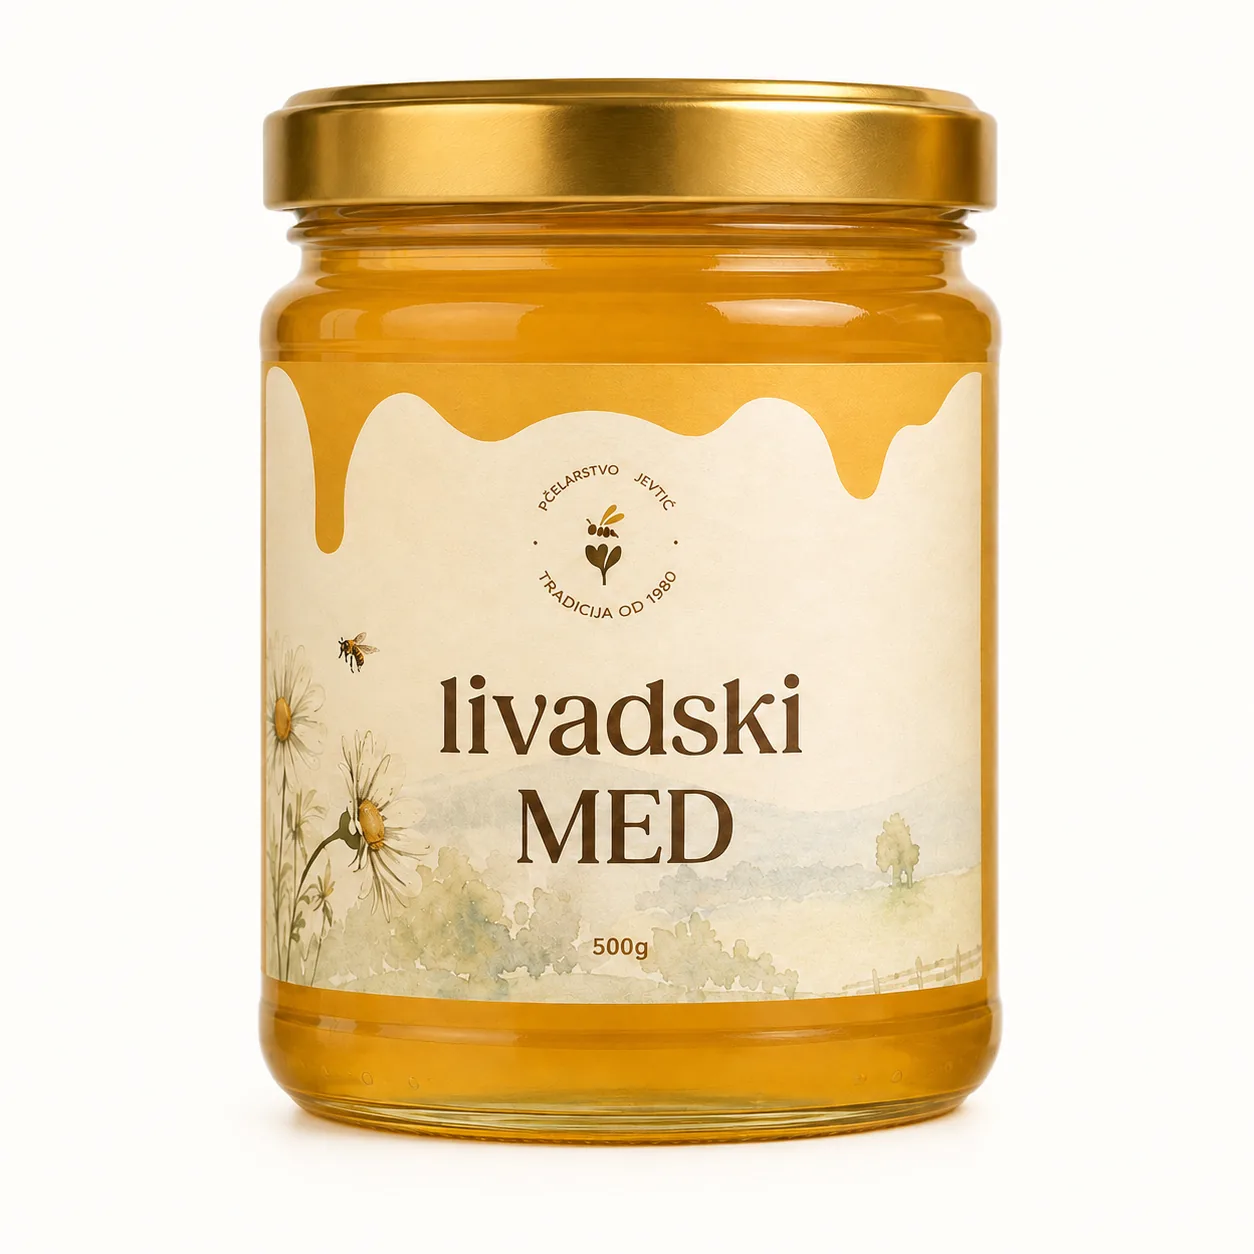
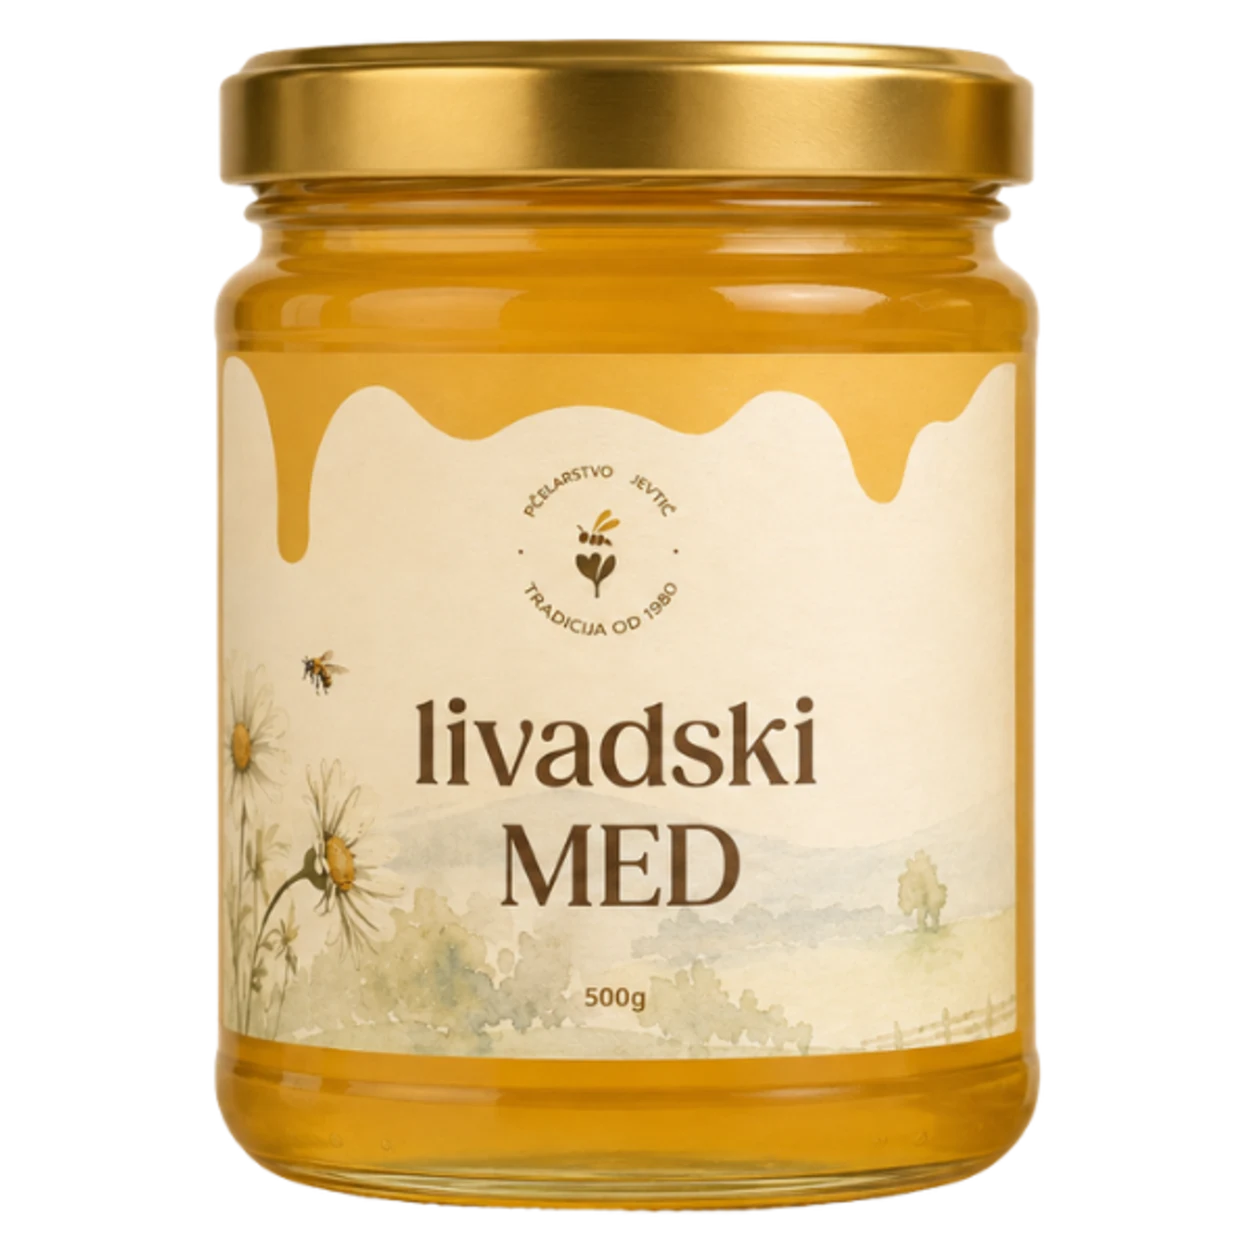
Name the products section by taste, and colour each card to its jar
Swap in the cut-out jar shots for all four featured articles and give the
two honeys a background of their own: pale honey behind livadski, a beige
that barely leaves the paper behind bagremov.

Claude-Session: https://claude.ai/code/session_01EY6e21nWCo1GRWFAS6uUyJ

Changed region(s): [[0.1555, 0.0311, 0.8397, 0.9641], [0.4043, 0.3732, 0.5598, 0.5287]]

diff --git a/src/content/pages.ts b/src/content/pages.ts
@@ -135,7 +135,7 @@ export const home = {
   featured: {
     sr: {
       eyebrow: 'Iz naših košnica',
-      heading: 'Dva meda, propolis i imuno mix.',
+      heading: 'Ukusi koji se ne zaboravljaju.',
       viewAll: 'Svi proizvodi',
       items: [
         { slug: 'livadski-med-500g', name: 'Livadski Med', note: 'Blag, cvjetan i uravnotežen.' },
@@ -150,7 +150,7 @@ export const home = {
     },
     en: {
       eyebrow: 'From our hives',
-      heading: 'Two honeys, propolis and imuno mix.',
+      heading: 'Flavours you do not forget.',
       viewAll: 'All products',
       items: [
         { slug: 'livadski-med-500g', name: 'Meadow Honey', note: 'Mild, floral and balanced.' },

diff --git a/src/data/products.ts b/src/data/products.ts
@@ -50,7 +50,7 @@ export const products: Product[] = [
     order: 2,
     category: 'honey',
     image: '/images/proizvodi/bagremov-500g.webp',
-    cardBg: 'var(--shot)',
+    cardBg: '#F4EDE1',
     variants: [{ id: 'bagremov-500', title: '500 g', price: 22, stock: 100 }],
     name: {
       sr: 'Bagremov med, 500 g',
@@ -92,7 +92,7 @@ export const products: Product[] = [
     order: 4,
     category: 'honey',
     image: '/images/proizvodi/livadski-500g.webp',
-    cardBg: 'var(--shot)',
+    cardBg: '#F7E2AC',
     variants: [{ id: 'livadski-500', title: '500 g', price: 18, stock: 120 }],
     name: {
       sr: 'Livadski med, 500 g',
